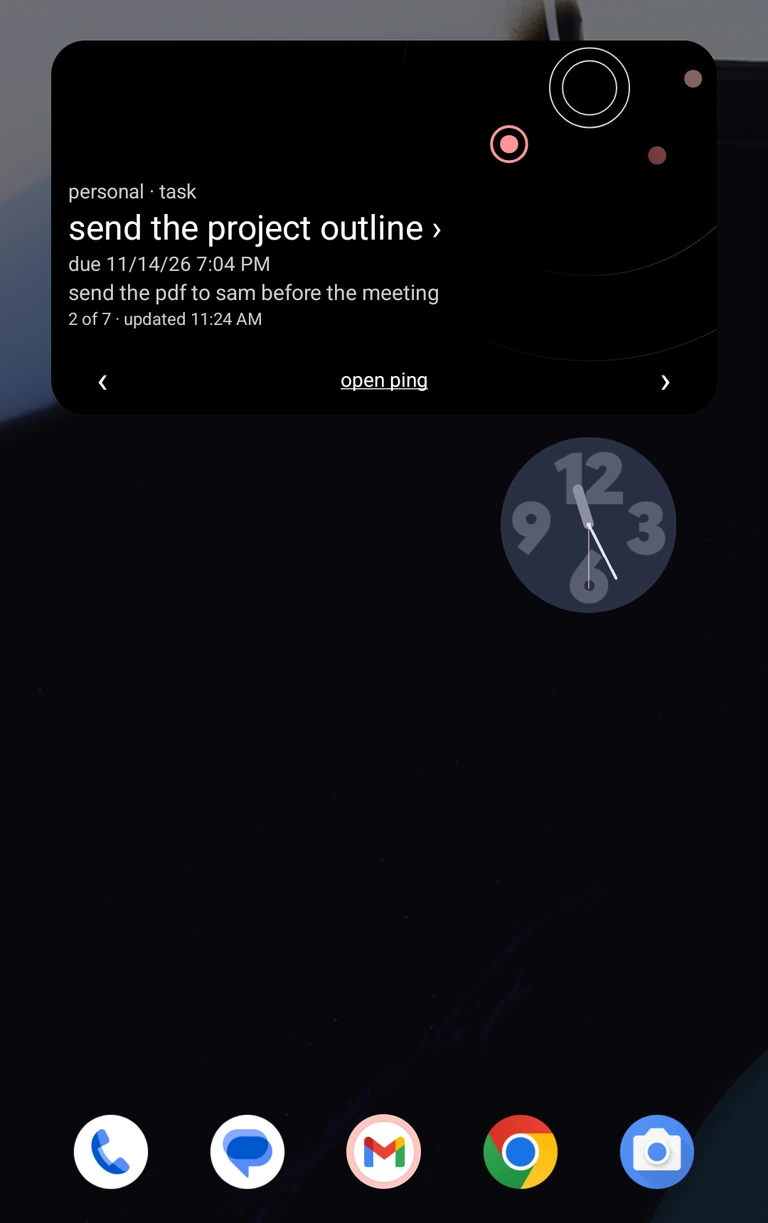
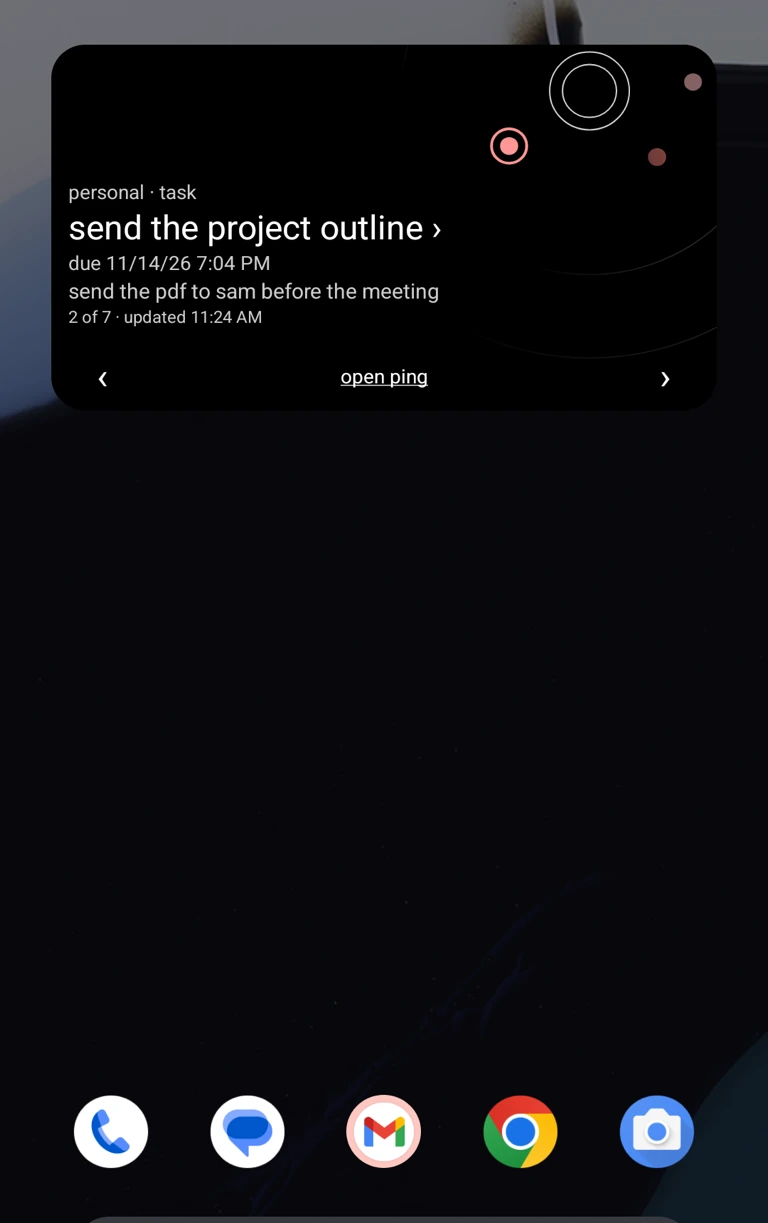
Remove the stock clock from the Ping landing artwork

diff --git a/ping/index.html b/ping/index.html
@@ -62,7 +62,7 @@
           <p>put a task or reminder on your android home screen and cycle through active items from the widget</p>
         </div>
         <figure class="widget-scene">
-          <img src="assets/ping-widget-home.webp?v=950a938a84" width="768" height="1223" loading="lazy" alt="an android home screen with the ping widget showing send the project outline at the top and a small analog clock below">
+          <img src="assets/ping-widget-home.webp?v=aa26bbc43f" width="768" height="1223" loading="lazy" alt="an android home screen with the ping widget showing send the project outline at the top">
         </figure>
       </section>
 
